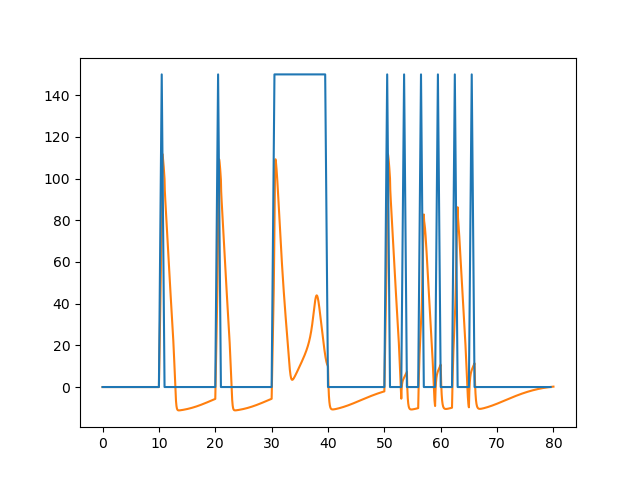
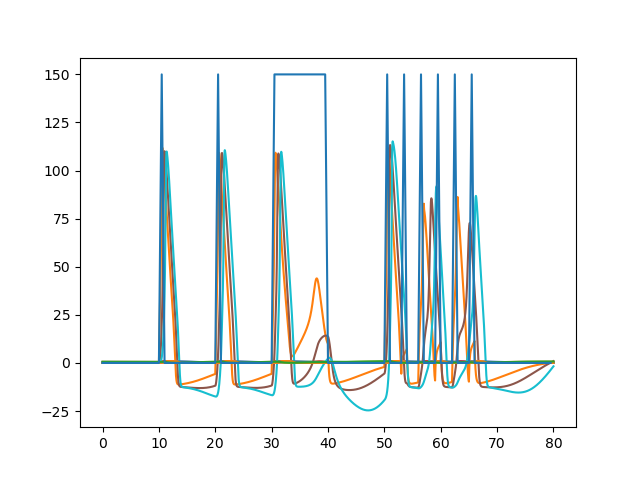
fix biological neural network

diff --git a/src/biological_neural_network.py b/src/biological_neural_network.py
@@ -14,16 +14,14 @@ class BiologicalNeuralNetwork:
     def get_derivatives(self):
         derivatives = []
 
-        for i, n in enumerate(self.neurons):
-            parents = [j.index for j in self.network.nodes[i].parents]
-            derivatives.append(
-                lambda t, x: n.derivatives[0](
-                    t, x[i*4:(i+1)*4]) + (1/n.C) * sum(x[p*4] for p in parents)
-            )
+        for j, n in enumerate(self.neurons):
+            ps = [j.index for j in self.network.nodes[j].parents]
             derivatives += [
-                (lambda t, x: n.derivatives[1](t, x[i*4:(i+1)*4])),
-                (lambda t, x: n.derivatives[2](t, x[i*4:(i+1)*4])),
-                (lambda t, x: n.derivatives[3](t, x[i*4:(i+1)*4])),
+                (lambda t, x, i=j, n=n, ps=ps: n.derivatives[0](
+                    t, x[i*4:(i+1)*4]) + sum(x[p*4] for p in ps)/n.C),
+                (lambda t, x, i=j, n=n: n.derivatives[1](t, x[i*4:(i+1)*4])),
+                (lambda t, x, i=j, n=n: n.derivatives[2](t, x[i*4:(i+1)*4])),
+                (lambda t, x, i=j, n=n: n.derivatives[3](t, x[i*4:(i+1)*4])),
             ]
         return derivatives
 
@@ -52,19 +50,11 @@ if __name__ == "__main__":
         elif t > 65 and t < 66:
             return 150
         return 0
-    # neuron_0 = BiologicalNeuron(stimulus=electrode_voltage)
-    # neuron_1 = BiologicalNeuron()
-    # neuron_2 = BiologicalNeuron()
-    # neurons = [neuron_0, neuron_1]
-    # synapses = [(0, 1)]
-    # synapses = []
-    #     The neural network resembles a directed graph:
-    # 0 --> 1 --> 2
-
-    neurons = [BiologicalNeuron(stimulus=electrode_voltage)]
-    # neurons = [BiologicalNeuron(
-    #     stimulus=electrode_voltage), BiologicalNeuron()]
-    synapses = []
+    neuron_0 = BiologicalNeuron(stimulus=electrode_voltage)
+    neuron_1 = BiologicalNeuron()
+    neuron_2 = BiologicalNeuron()
+    neurons = [neuron_0, neuron_1, neuron_2]
+    synapses = [(0, 1), (1, 2)]
     network = BiologicalNeuralNetwork(neurons, synapses)
     euler = EulerEstimator(
         derivatives=network.get_derivatives(),

diff --git a/src/euler_estimator.py b/src/euler_estimator.py
@@ -40,8 +40,6 @@ class EulerEstimator:
             y_data.append(self.point[1])
 
         for i, y_vals in enumerate(zip(*y_data)):
-            if i % 4 != 0:
-                continue
             plt.plot(x_data, y_vals, zorder=1)
 
         plt.savefig(filename)
